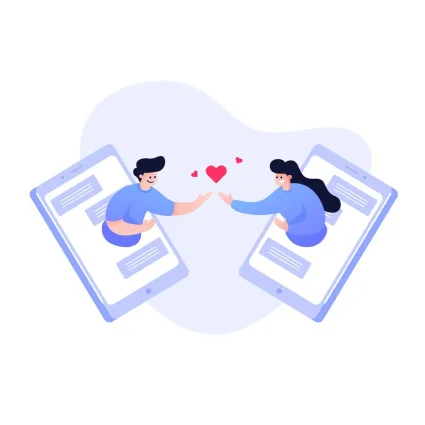
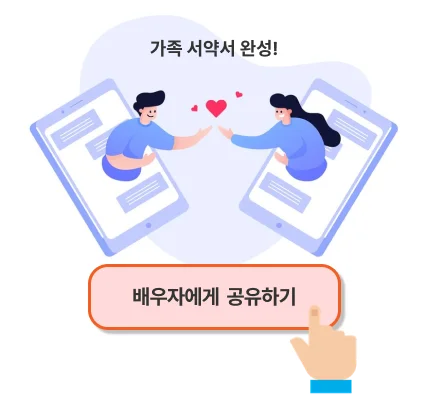
fix: QA

diff --git a/src/components/InfoPageStepper.tsx b/src/components/InfoPageStepper.tsx
@@ -12,36 +12,52 @@ const STEPS_1 = [
   {
     id: 0,
     title: (
-      <h1>
-        우리 가족, 배우자, 내 아이를 떠올리며
-        <br />
-        <b>가장 어울리는 단어</b>를 골라주세요!
-      </h1>
+      <div>
+        <h1 className="font-bold text-[2.4rem] leading-[4rem]">
+          나의 마음 입력하기
+        </h1>
+        <h2 className="text-[2.4rem] leading-[4rem]">
+          질문을 읽고 떠오르는 단어를 선택합니다.
+        </h2>
+      </div>
     ),
     image: "/info1.webp",
+    width: "44.2",
+    height: "37.232",
     left: "left-[0]",
   },
   {
     id: 1,
     title: (
-      <h1>
-        서약서를 완성할 수 있도록
-        <br />내 <b>배우자에게 공유</b>해주세요!
-      </h1>
+      <div>
+        <h1 className="font-bold text-[2.4rem] leading-[4rem]">
+          배우자에게 참여 요청하기
+        </h1>
+        <h2 className="text-[2.4rem] leading-[4rem]">
+          링크를 공유하고 배우자의 입력을 기다립니다.
+        </h2>
+      </div>
     ),
     image: "/info2.webp",
+    width: "42.5",
+    height: "39.5",
     left: "left-[33.3%]",
   },
   {
     id: 2,
     title: (
-      <h1>
-        <b>아이의 목소리</b>를 담은
-        <br />
-        따뜻한 <b>가족 서약서</b>가 탄생합니다!
-      </h1>
+      <div>
+        <h1 className="font-bold text-[2.4rem] leading-[4rem]">
+          완성된 서약서 함께 열어보기
+        </h1>
+        <h2 className="text-[2.4rem] leading-[4rem]">
+          배우자가 입력을 마치면 서약서가 도착합니다.
+        </h2>
+      </div>
     ),
-    image: "",
+    image: "/info3.webp",
+    width: "25.3",
+    height: "39.6",
     left: "left-[66.7%]",
   },
 ];
@@ -49,35 +65,54 @@ const STEPS_2 = [
   {
     id: 0,
     title: (
-      <h1>
-        우리 가족, 배우자, 내 아이를 떠올리며
-        <br />
-        <b>가장 어울리는 단어</b>를 골라주세요!
-      </h1>
+      <div>
+        <h1 className="font-bold text-[2.4rem] leading-[4rem]">
+          나의 마음 입력하기
+        </h1>
+        <h2 className="text-[2.4rem] leading-[4rem]">
+          질문을 읽고 떠오르는 단어를 선택합니다.
+        </h2>
+      </div>
     ),
     image: "/info1.webp",
+    width: "44.2",
+    height: "37.232",
+    left: "0",
   },
   {
     id: 1,
     title: (
-      <h1>
-        <b>아이의 목소리</b>를 담은
-        <br />
-        따뜻한 <b>가족 서약서</b>가 탄생합니다!
-      </h1>
+      <div>
+        <h1 className="font-bold text-[2.4rem] leading-[4rem]">
+          배우자에게 공유하기
+        </h1>
+        <h2 className="text-[2.4rem] leading-[4rem]">
+          답변을 마친 후 배우자에게 공유해주세요!
+        </h2>
+      </div>
     ),
-    image: "",
+    image: "/info4.webp",
+    width: "42.5",
+    height: "39.5",
+    left: "left-[33.3%]",
   },
   {
     id: 2,
     title: (
-      <h1>
-        완성된 서약서를 <b>배우자에게 공유</b>하고
-        <br />
-        함께 서약서를 읽어보세요!
-      </h1>
+      <div>
+        <h1 className="font-bold text-[2.4rem] leading-[4rem]">
+          서약서 함께 열어보기
+        </h1>
+        <h2 className="text-[2.4rem] leading-[4rem]">
+          공유한 링크에서 완성된 서약서를 열어보세요.
+        </h2>
+      </div>
     ),
     image: "/info3.webp",
+
+    width: "25.3",
+    height: "39.6",
+    left: "left-[66.7%]",
   },
 ];
 export default function InfoPageStepper() {
@@ -115,17 +150,32 @@ export default function InfoPageStepper() {
                   </div>
                   {contents.image && (
                     <Image
-                      className="mt-[7rem] max-w-[42.5rem]"
+                      className={`mt-[4.5rem]
+                      ${
+                        contents.id === 0
+                          ? "w-[44.2rem]"
+                          : contents.id === 1
+                          ? "w-[42.5rem]"
+                          : "w-[25.3rem]"
+                      }
+                      `}
                       src={contents.image}
                       alt="참여 방법"
-                      width={403}
-                      height={403}
+                      width={
+                        contents.id === 0 ? 442 : contents.id === 1 ? 425 : 253
+                      }
+                      height={
+                        contents.id === 0
+                          ? 372.3
+                          : contents.id === 1
+                          ? 395
+                          : 396
+                      }
                     />
                   )}
                   {/* <a href="https://www.freepik.com/free-vector/curiosity-people-concept-illustration_30576696.htm#page=4&query=choose&position=1&from_view=search&track=sph&uuid=d8125466-63e9-4585-be47-303bb6d57545">Image by storyset</a> on Freepik */}
                   {/* Image by <a href="https://www.freepik.com/free-vector/flat-design-characters-chatting-dating-app_5380865.htm#page=2&query=profile&position=12&from_view=search&track=sph&uuid=8c04433a-082f-48f1-8188-d49e54678510">Freepik</a> */}
                   {/* Image by <a href="https://www.freepik.com/free-vector/dating-app-concept-flat-design_5230633.htm#page=3&query=share&position=0&from_view=search&track=sph&uuid=f35b7d49-ee79-4ccc-aaff-af823e188214">Freepik</a> */}
-                  {!contents.image && <InfoPledgeCard />}
                 </div>
               );
             })}
@@ -146,14 +196,29 @@ export default function InfoPageStepper() {
                   </div>
                   {contents.image && (
                     <Image
-                      className="mt-[7rem] max-w-[42.5rem]"
+                      className={`mt-[4.5rem]
+                      ${
+                        contents.id === 0
+                          ? "w-[44.2rem]"
+                          : contents.id === 1
+                          ? "w-[42.5rem]"
+                          : "w-[25.3rem]"
+                      }
+                      `}
                       src={contents.image}
                       alt="참여 방법"
-                      width={403}
-                      height={403}
+                      width={
+                        contents.id === 0 ? 442 : contents.id === 1 ? 425 : 253
+                      }
+                      height={
+                        contents.id === 0
+                          ? 372.3
+                          : contents.id === 1
+                          ? 395
+                          : 396
+                      }
                     />
                   )}
-                  {!contents.image && <InfoPledgeCard />}
                 </div>
               );
             })}
@@ -163,7 +228,7 @@ export default function InfoPageStepper() {
       <div className="absolute z-10 w-[30rem] h-[1rem] left-[50%] translate-x-[-50%] bottom-[13rem] mx-auto">
         <div className="absolute w-[30rem] h-[1rem] rounded-[1rem] bg-[#D9D9D9]" />
         <div
-          className={`absolute w-[10rem] h-[1rem] rounded-[1rem] bg-[#F25D24] transition-all duration-300 ${
+          className={`absolute w-[10rem] h-[1rem] rounded-[1rem] bg-[#333] transition-all duration-300 ${
             infoStep === 0
               ? "left-0"
               : infoStep === 1

diff --git a/src/app/(pages)/promotion/pledge/result2/[id]/share/page.tsx b/src/app/(pages)/promotion/pledge/result2/[id]/share/page.tsx
@@ -39,10 +39,10 @@ export default function Page() {
               height={81}
             />
           </div>
-          <div className="text-center text-[2.4rem] mt-[6rem] mb-[5rem]">
-            <b>우리 가족 서약서 완성!</b>
+          <div className="font-bold text-center text-[2.4rem] mt-[4.6rem] mb-[5rem] leading-[4rem]">
+            배우자에게 공유하고
             <br />
-            배우자가 완성된 서약서를 기다리고 있어요.
+            완성된 서약서를 확인해보세요!
           </div>
           <Image
             className="mx-auto w-[36rem]"
@@ -53,9 +53,7 @@ export default function Page() {
           />
           {/* <a href="https://www.freepik.com/free-vector/big-isolated-cartoon-young-girl-boy-love-couple-sharing-caring-love-3d-illustration_12953857.htm#page=3&query=share&position=39&from_view=search&track=sph&uuid=349ea626-ab1a-4e9a-a9c4-4844e0aa0aed">Image by jcomp</a> on Freepik */}
           <div className="text-[2.1rem] text-center mt-[3rem] font-bold leading-[4rem]">
-            배우자에게 전송한 링크에 접속해서
-            <br />
-            함께 서약서를 읽어보세요!
+            어떤 서약서가 기다리고 있을까요?
           </div>
         </div>
       </div>

diff --git a/src/components/PledgeMainPage.tsx b/src/components/PledgeMainPage.tsx
@@ -58,9 +58,9 @@ export default function PledgeMainPage({ count = 0 }) {
         />
         {searchParams && (
           <h2 className="text-[2.4rem] mt-[8rem] text-center">
-            <b>배우자가 당신의 참여</b>를 기다리고 있습니다.
+            <b>배우자와 함께 가족 서약서</b>를 만들어보세요!
             <br />
-            <b>우리 가족 서약서</b>를 함께 만들어보세요!
+            먼저 참여한 배우자가 <b>당신을 기다리고 있어요!</b>
           </h2>
         )}
         {!searchParams && <MainPledgeCard />}

diff --git a/src/app/(pages)/promotion/pledge/result/page.tsx b/src/app/(pages)/promotion/pledge/result/page.tsx
@@ -95,7 +95,7 @@ export default function Page() {
         </div>
       </CustomBottomModal>
       <BottomButton
-        label="배우자에게 공유하기"
+        label="배우자에게 참여 요청하기"
         status={true}
         onClick={() => setToggle(!toggle)}
       />
